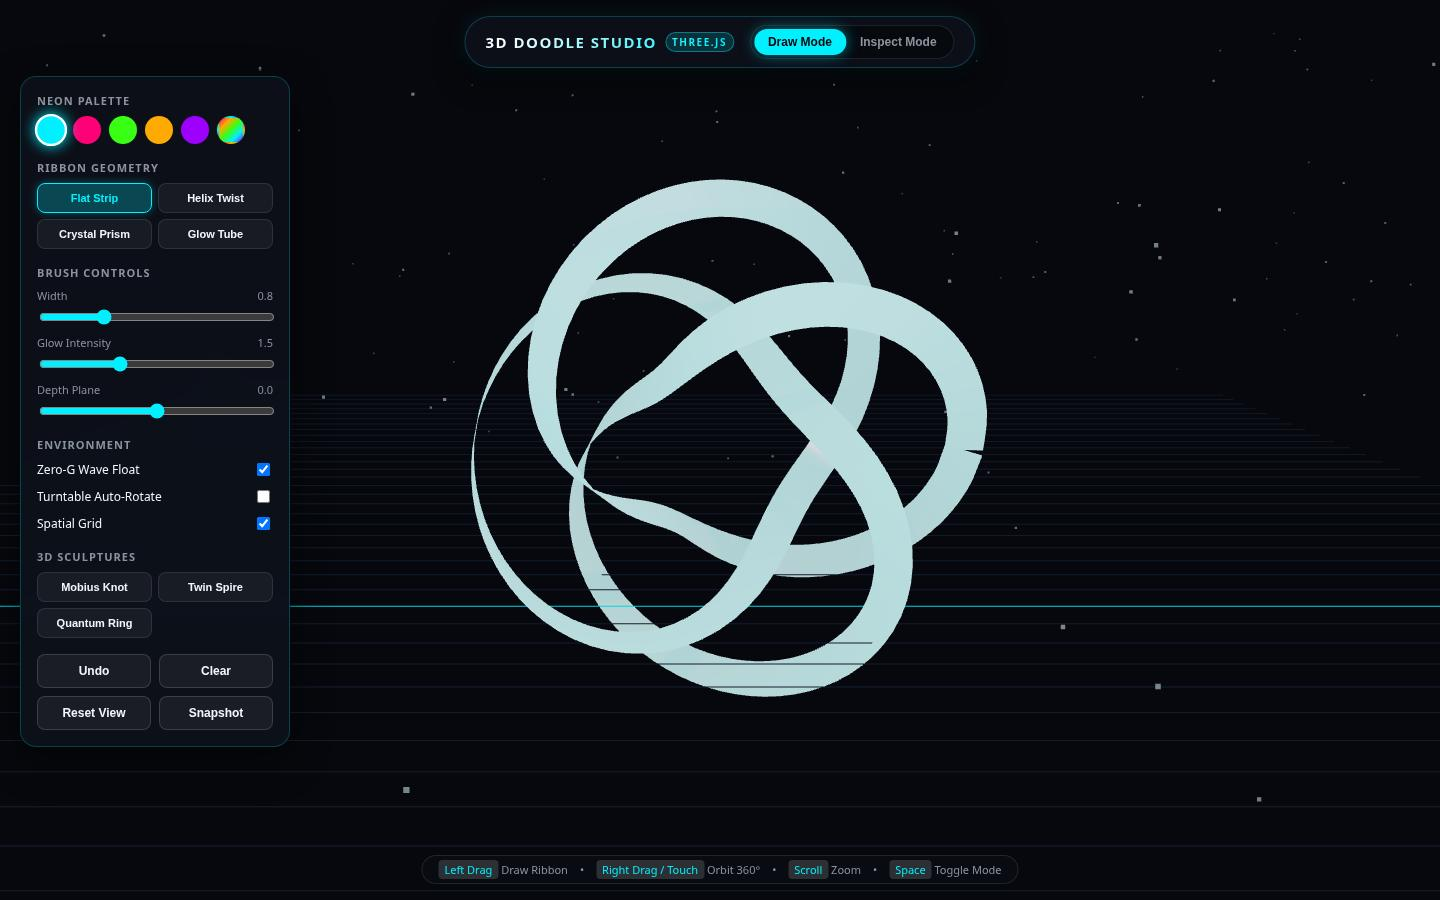
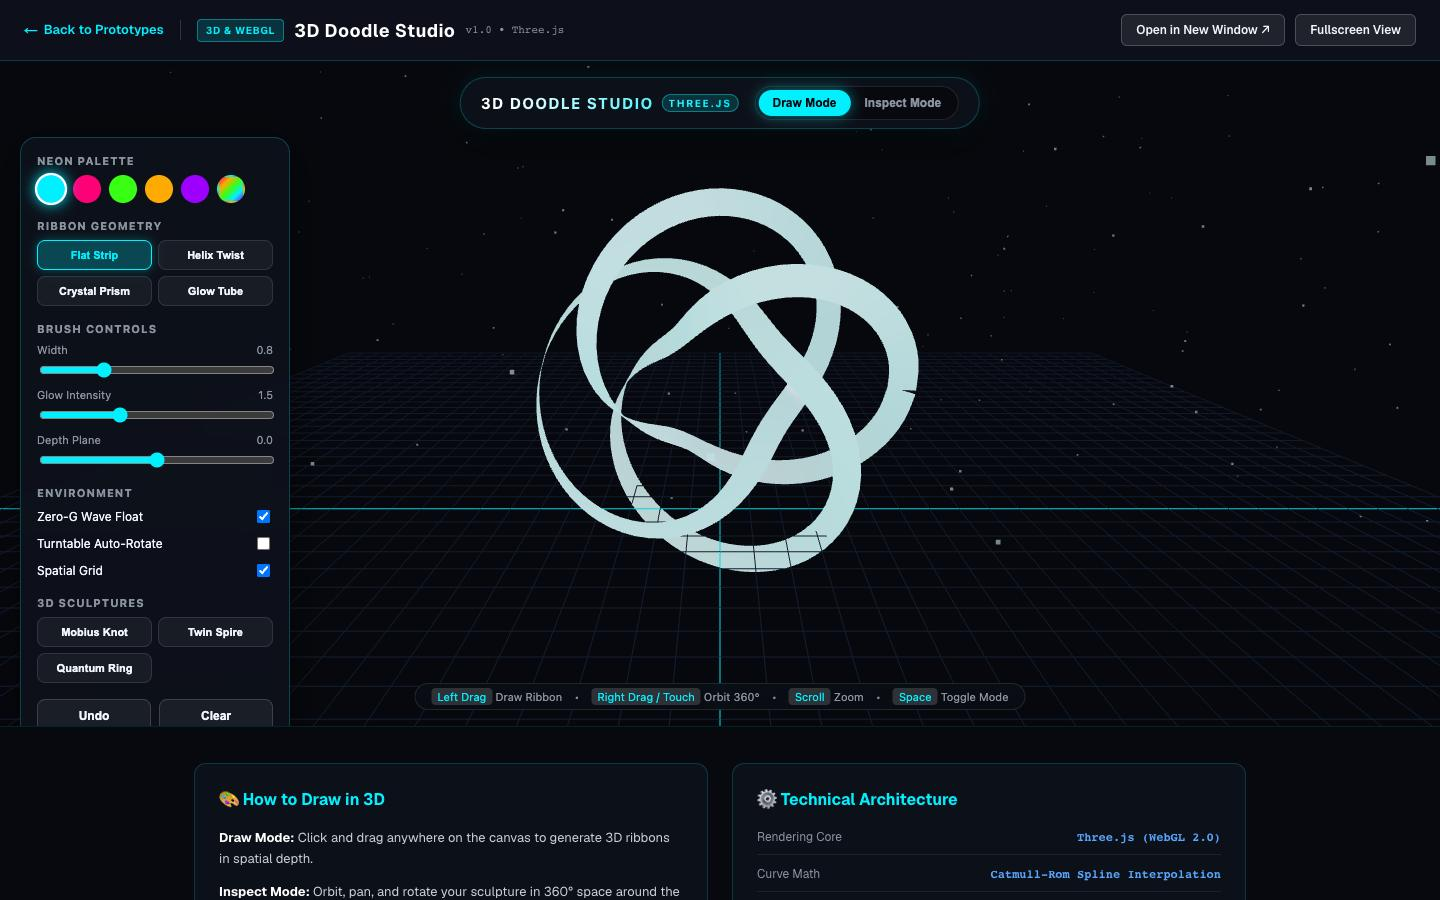
Update Shuotong portfolio and add her new projects

diff --git a/src/projects.js b/src/projects.js
@@ -37,7 +37,7 @@ const typographyProjects = [
   ["Ryan Page","Typography Experiments","/prototypes/typography-experiments"],
   ["Sasha Shafran","Type Mix","/prototypes/type-mix"],
   ["Sean Wiseman","Torch Typography","/prototypes/torch-typography"],
-  ["Shuotong Huang (Tiffany)","Typography Playground","/typography-playground/index.html"],
+  ["Shuotong Huang (Tiffany)","Typography Playground","/prototypes/typography-playground"],
   ["Siyue Zhong","Typography Generator","/prototypes/typography-generator"],
   ["Siyue Zhong","Typography Experiments","/prototypes/typography-experiments"],
   ["Siyue Zhong","Spiral Typography","/prototypes/spiral-typography"],
@@ -95,7 +95,7 @@ const doodleProjects = [
   ["Ryan Page","Doodle Creator","/prototypes/doodle-creator"],
   ["Sean Wiseman","Doodle","/prototypes/doodle"],
   ["Sasha Shafran","Fashion Doodle","/prototypes/fashion-doodle"],
-  ["Shuotong Huang (Tiffany)","3D Doodle Studio","/doodle-playground/index.html"],
+  ["Shuotong Huang (Tiffany)","3D Doodle Studio","/prototypes/doodle-playground"],
   ["Taiyang Zhang (Sunshine)","Needy Girl Oekaki","/prototypes/needy-girl-os"],
   ["Taiyang Zhang (Sunshine)","Masterpiece Vandal Club","/prototypes/masterpiece-graffiti-lab"],
   ["Tinglan Huang (Alanis)","Point / Trace","https://point-trace-doodle.vercel.app/"],
@@ -125,6 +125,8 @@ const weatherProjects = [
   ["Ryan Page","Weather Dashboard","/prototypes/weather-dashboard"],
   ["Sasha Shafran","Weather Archive","/prototypes/weather-archive"],
   ["Sean Wiseman","Weather, anywhere.","/prototypes/weather"],
+  ["Shuotong Huang (Tiffany)","Local Weather","/prototypes/local-weather"],
+  ["Shuotong Huang (Tiffany)","Meteorological Archive","/prototypes/weather-display"],
   ["Siyue Zhong","Weather Station","/prototypes/weather-station"],
   ["Stephen Grant (Mac)","Local Forecast","/prototypes/local-weather"],
   ["Taiyang Zhang (Sunshine)","Weather Horizon","/prototypes/weather-horizon"],
@@ -167,6 +169,8 @@ const bookProjects = [
   ["Ryan Page","My bookshelf","/prototypes/my-bookshelf"],
   ["Sasha Shafran","What I Read in NYC","/prototypes/my-bookshelf"],
   ["Sean Wiseman","My Bookshelf","/prototypes/my-bookshelf"],
+  ["Shuotong Huang (Tiffany)","My Bookshelf","/prototypes/my-bookshelf"],
+  ["Shuotong Huang (Tiffany)","Minimalist Bookshelf","/prototypes/minimalist-bookshelf"],
   ["Siyue Zhong","My bookshelf","/prototypes/my-bookshelf"],
   ["Stephen Grant (Mac)","My Bookshelf","/prototypes/my-bookshelf"],
   ["Taiyang Zhang (Sunshine)","My Bookshelf","/prototypes/my-bookshelf"],

diff --git a/src/students.js b/src/students.js
@@ -15,7 +15,7 @@ export const students = [
   { name: "Ryan Page", url: "https://prototyping-for-masters-rho.vercel.app/" },
   { name: "Sasha Shafran", url: "https://prototyping-for-masters-sashki-lw62.vercel.app/" },
   { name: "Sean Wiseman", url: "https://prototyping-for-masters.vercel.app/" },
-  { name: "Shuotong Huang (Tiffany)", url: "https://shuotong-huang-portfolio.vercel.app/" },
+  { name: "Shuotong Huang (Tiffany)", url: "https://shuotong-portfolio.vercel.app/" },
   { name: "Siyue Zhong", url: "https://prototyping-for-masters-c12t.vercel.app/" },
   { name: "Stephen Grant (Mac)", url: "https://masters-main.vercel.app/" },
   { name: "Taiyang Zhang (Sunshine)", url: "https://sunshine-prototypes.vercel.app/" },

diff --git a/docs/project-curation.md b/docs/project-curation.md
@@ -12,6 +12,8 @@ Elizabeth supplied seven direct project links. All returned HTTP 200 and rendere
 
 Shuotong follow-up: Elizabeth supplied the standalone Typography Playground and 3D Doodle Studio pages. Both returned HTTP 200 and rendered successfully. Typography Playground manipulates woven/textile letterforms with editable text and behavior modes; 3D Doodle Studio renders neon ribbons with drawing, geometry, brush, and orbit controls. Added both to their assigned collections with separate captured previews.
 
+October 21 Shuotong update: her portfolio moved to [shuotong-portfolio.vercel.app](https://shuotong-portfolio.vercel.app/). Typography Playground and 3D Doodle Studio now link to its `/prototypes/` routes. Added Local Weather and Meteorological Archive to Weather apps, and My Bookshelf and Minimalist Bookshelf to Books. All six routes returned HTTP 200 and have fresh captured previews, along with a new homepage preview. Some book covers on both bookshelf pages fail to load on the live site.
+
 Siyue follow-up: Elizabeth supplied Jelly Creatures for PixiJS and Weather Station for Weather apps. Both direct pages returned HTTP 200 and rendered successfully. Jelly Creatures identifies PixiJS v8 and container transforms in its own interface, with interactive squash-and-stretch cats. Weather Station displays conditions, hourly/five-day forecasts, packing recommendations, and historical comparisons in explicitly labeled demo mode. Added both with captured previews.
 
 Zhongyunqi follow-up: Elizabeth supplied Typography and Draw to Feed a Creature. Both direct pages returned HTTP 200. Typography renders individually arranged letters and an embedded 3D scene; included in Week 3 as assigned by the instructor. Draw to Feed a Creature provides a drawing canvas, brush widths, changing palettes, and stroke-based creature growth. Added both with captured previews.

diff --git a/docs/missing-projects-2026-10-16.md b/docs/missing-projects-2026-10-16.md
@@ -1,5 +1,7 @@
 # Required-project coverage — October 16, 2026
 
+October 21 update: Shuotong Huang (Tiffany) now has published Weather and Books projects on her new portfolio, and all four required projects are present. The counts below reflect October 16.
+
 PixiJS and API explorations are optional and excluded, as clarified by Elizabeth. Required categories: Week 3 Typography, Week 4 Doodle, Week 5 Weather, and Week 6 Books.
 
 Compared all 31 students against the current gallery and October 15–16 site-review evidence. Subsequently rechecked the current live sites of all 13 students initially listed as missing required work, inspected their project menus and exposed routes, and opened 69 candidate project URLs. All 13 homepages returned HTTP 200; candidate pages returned 12 HTTP 200 responses and 57 HTTP 404 responses, with no navigation errors. “Missing” means no qualifying published project was identified; unlinked or unpublished work may exist. Published demos and configuration-blocked projects count as present. This is a coverage check, not a functionality grade.
